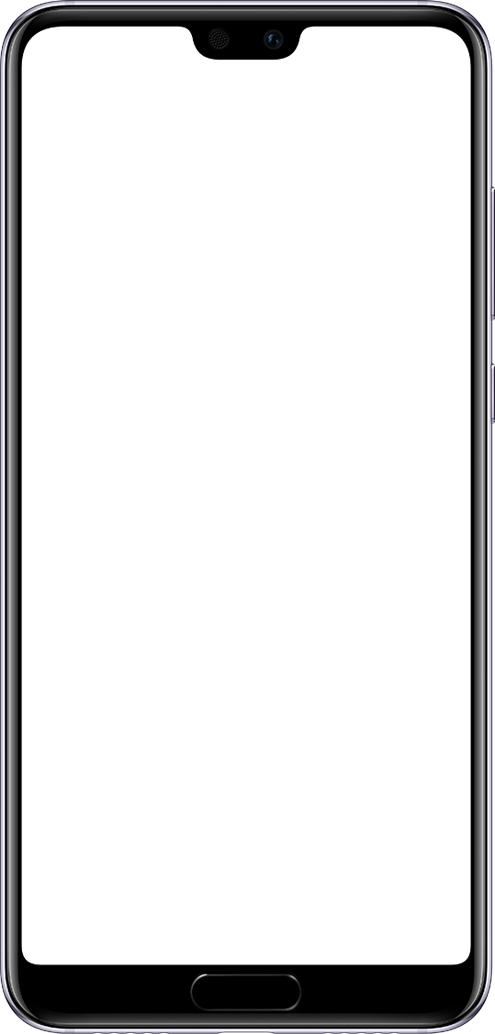
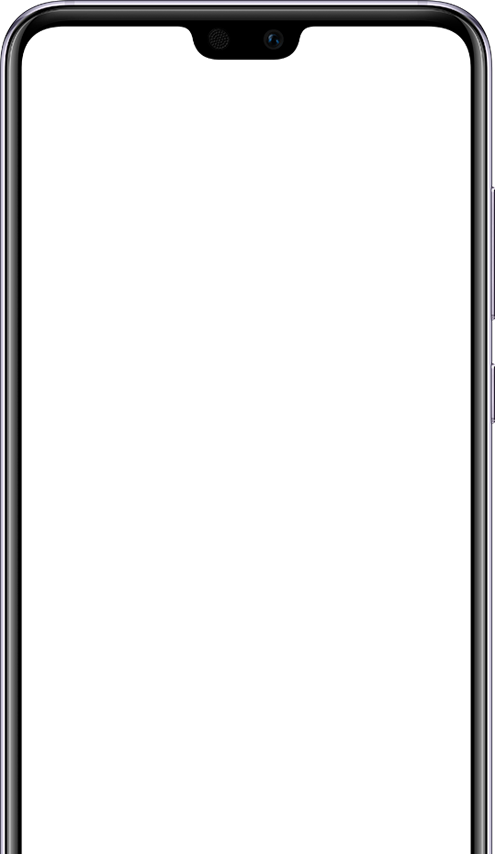
Crop phone mockup photo to match previous compact size
Trims the bottom 180px (home button + chin) off the iPhone frame photo
and replaces the fade overlay with a solid-to-transparent gradient
shaped like a chin/bezel so the crop edge isn't visible.

Claude-Session: https://claude.ai/code/session_011owsuB54eufiuX9P35hqz9

diff --git a/animations.css b/animations.css
@@ -133,7 +133,7 @@ body > footer {
   box-shadow: 0 50px 100px rgba(0,0,0,.75);
   overflow: hidden;
   position: relative;
-  aspect-ratio: 495 / 1034;
+  aspect-ratio: 495 / 854;
 }
 .phone-v-statusbar {
   display: flex;
@@ -148,17 +148,19 @@ body > footer {
   z-index: 2;
 }
 .phone-v-fade {
-  /* short fade so it blends the screen's bottom edge smoothly */
+  /* hides the cropped bottom edge of the phone photo with a fake chin/bezel */
   position: absolute;
-  bottom: 6%; left: 0; right: 0;
-  height: 60px;
+  bottom: 0; left: 0; right: 0;
+  height: 110px;
   background: linear-gradient(
     to top,
-    var(--bg, #1A2E28) 0%,
+    #0d0d0d 0%,
+    #0d0d0d 30%,
     transparent 100%
   );
+  border-radius: 0 0 48px 48px;
   pointer-events: none;
-  z-index: 4;
+  z-index: 6;
 }
 .phone-v-shell {
   position: absolute;